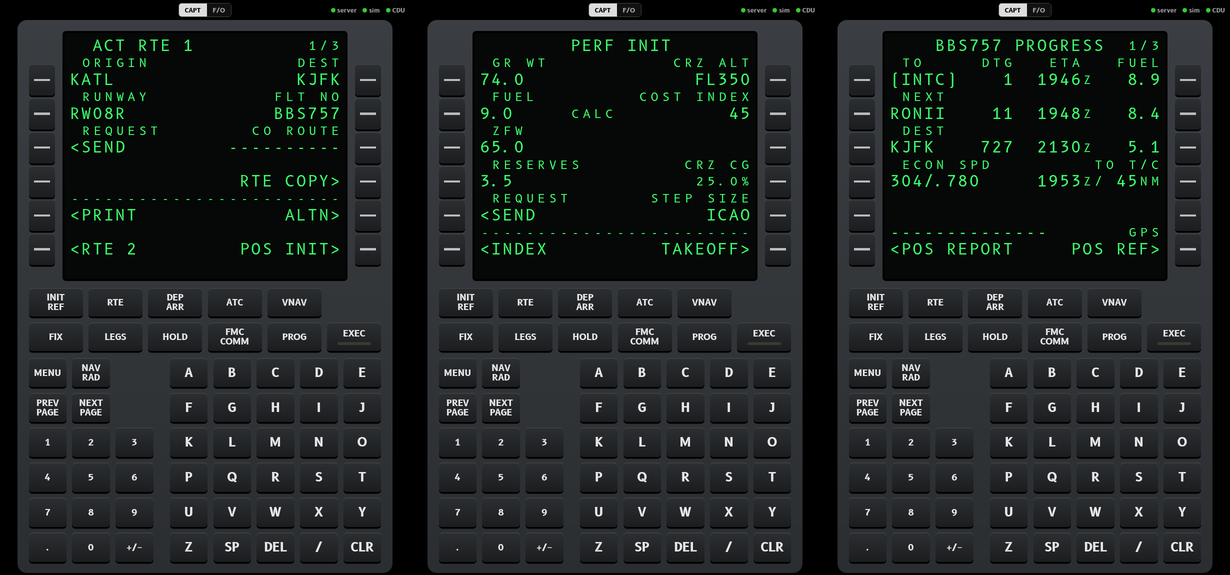
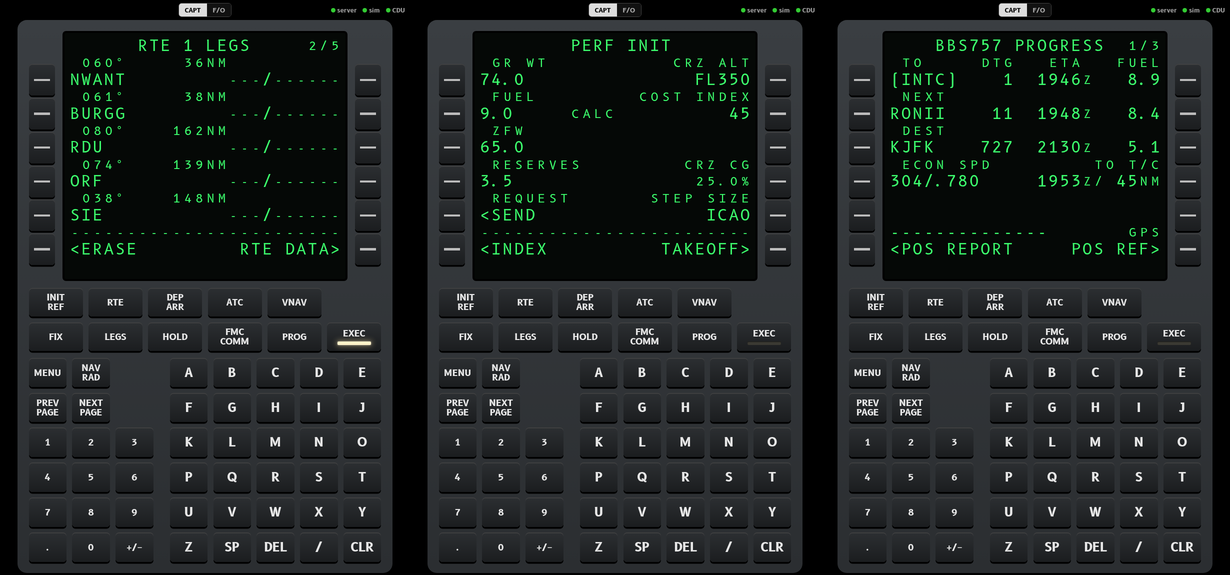
README rewrite; screenshot shows the EXEC light

diff --git a/README.md b/README.md
@@ -1,54 +1,65 @@
 # bbs757-webcdu
 
-A web CDU for the **BlueBird Simulations 757** in Microsoft Flight Simulator. You get the full
-CDU (live screen and every key) on a tablet, phone or any browser.
+The **BlueBird Simulations 757** CDU in your browser. You get the live screen, every key and
+the EXEC light on a tablet, phone or second monitor, for Microsoft Flight Simulator.
 
 ![Route, performance and progress pages on the web CDU](docs/screenshots/pages.png)
 
-<sub>KATL → KJFK via PLMMR3 and CAMRN5, entered entirely from the web CDU.</sub>
+<sub>KATL → KJFK via PLMMR3 and CAMRN5, entered entirely from the web CDU.
+Left: the route edit waiting to be executed, with EXEC lit.</sub>
 
-It's a single `bbs757-webcdu.exe`. The web page, fonts and `SimConnect.dll` are built in,
-and there's nothing else to install. Grab it from [Releases](../../releases).
+## Features
 
-## Using it
+- Full CDU: the screen, every key, and the EXEC light
+- Captain and First Officer CDUs, switchable at the top of the page
+- Works in any modern browser on the same network, with no app to install on the tablet
+- One small `.exe` on the sim PC with everything built in
 
-1. Close MobiFlight if it's running, because it uses the same port (8320).
-2. Start `bbs757-webcdu.exe` on the sim PC, then load the 757.
-   The window should show `SimConnect connected` and `aircraft connected: cdu-captain`.
-3. On the tablet, phone or second PC, open `http://<sim-pc-ip>:8757`. On a tablet or phone,
-   **Add to Home Screen** in the browser menu gets it full-screen. Windows Firewall needs to
-   allow inbound TCP 8757.
+## Getting started
 
-The status dots at the top show the connections:
+1. Download `bbs757-webcdu.exe` from [Releases](../../releases).
+2. Close MobiFlight if it's running, because both use port 8320.
+3. Start `bbs757-webcdu.exe` on the sim PC, then load the 757. The window should show
+   `SimConnect connected` and `aircraft connected: cdu-captain`.
+4. On your tablet, phone or second PC, open `http://<sim-pc-ip>:8757`.
+   **Add to Home Screen** in the browser menu gets it full-screen.
 
-| dot    | green means                                                             |
-|--------|-------------------------------------------------------------------------|
-| server | the page is connected to the app                                        |
-| sim    | the app is connected to MSFS through SimConnect (needed for key presses) |
-| CDU    | the 757 is sending this seat's screen (CAPT and F/O are separate)       |
+The first time, Windows may ask whether to allow the app through the firewall. Allow it on
+private networks, or the tablet can't connect. The `.exe` isn't code-signed, so SmartScreen
+may warn you on first launch. Choose **More info → Run anyway**.
+
+## Status lights
+
+| dot    | green means                                                               |
+|--------|---------------------------------------------------------------------------|
+| server | the page is connected to the app                                          |
+| sim    | the app is connected to MSFS through SimConnect (needed for key presses)  |
+| CDU    | the 757 is sending this seat's screen (CAPT and F/O are separate)         |
 
 If **CDU** is green but **sim** is red, the screen updates but key presses go nowhere.
 
 ## How it works
 
 - **Screen:** the 757 has built-in support for the WinWing/MobiFlight hardware CDU protocol.
-  It connects as a websocket client to `ws://127.0.0.1:8320/winwing/cdu-captain` (and
-  `cdu-co-pilot`), then pushes every screen update as JSON:
-  `{"Target":"Display","Data":[ 14×24 cells of [char, colour, small, inverted] ]}`.
-  The app takes MobiFlight's place on that port and passes the frames on to the web page.
-- **Keys:** each CDU key is an L-var, `L:B757_CDU_<1|2>_<KEY>`, which is 1 while the key is
-  held and 0 when it's released. The app writes these through SimConnect, one key at a time
-  per CDU, with a minimum hold of 80 ms. The 757 only registers one held key per frame, so
-  presses that overlap would be dropped.
+  It connects to `ws://127.0.0.1:8320/winwing/cdu-captain` (and `cdu-co-pilot`) and pushes
+  every screen update as JSON. The app takes MobiFlight's place on that port and passes the
+  screen on to the web page.
+- **Keys:** each CDU key is an L-var, `L:B757_CDU_<1|2>_<KEY>`, which is 1 while held. The
+  app sets these through SimConnect, one key at a time, so fast typing doesn't drop
+  characters.
+- **EXEC light:** the app watches `L:FMC_EXEC_ACTIVE_<1|2>`, the same variable that lights
+  EXEC in the cockpit.
 
 ## Credits
 
-- [B612](https://github.com/polarsys/b612) fonts, SIL Open Font License 1.1 (`assets/fonts/OFL.txt`).
-- The MobiFlight project's open-source CDU websocket hub, for showing the protocol.
+- [B612](https://github.com/polarsys/b612) fonts, SIL Open Font License 1.1.
+- The MobiFlight project's open-source CDU hub, for showing the protocol.
+
+Not affiliated with BlueBird Simulations, MobiFlight, WinWing or Microsoft.
 
 ## License
 
-[PolyForm Noncommercial 1.0.0](LICENSE). You're free to use, modify and share bbs757-webcdu
-for any noncommercial purpose. Forks are welcome. Streaming or recording while you use it is
+[PolyForm Noncommercial 1.0.0](LICENSE). You're free to use, modify and share it for any
+noncommercial purpose, and forks are welcome. Streaming or recording while you use it is
 explicitly fine, including monetized streams. Selling it, or putting it into a commercial
 product or service, is not allowed without permission.
